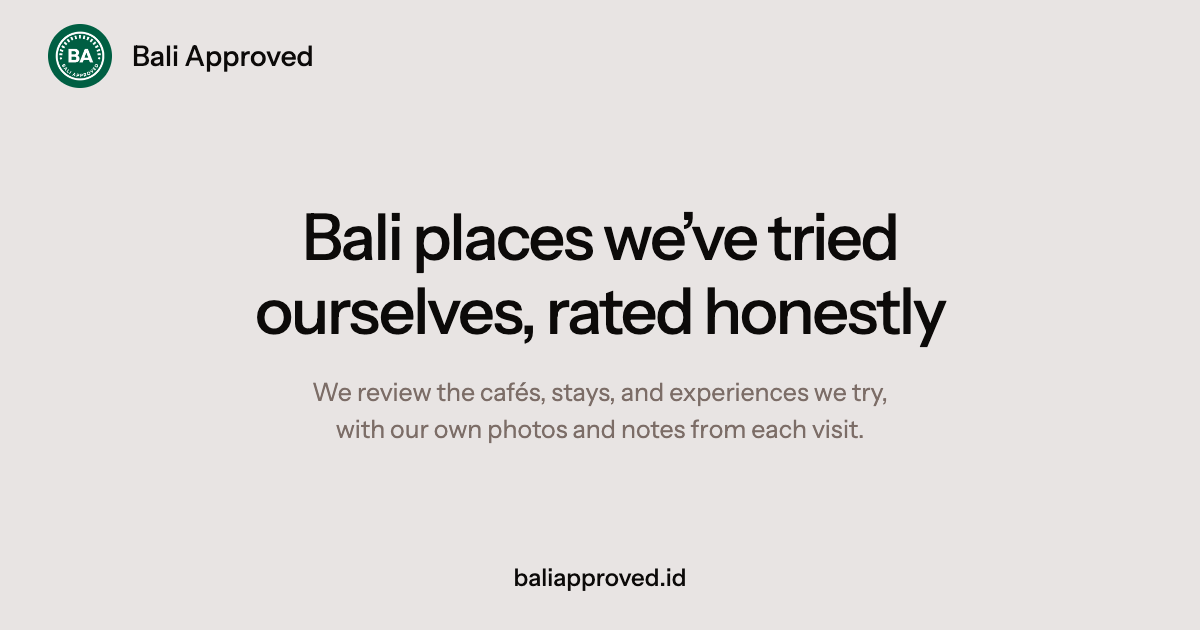
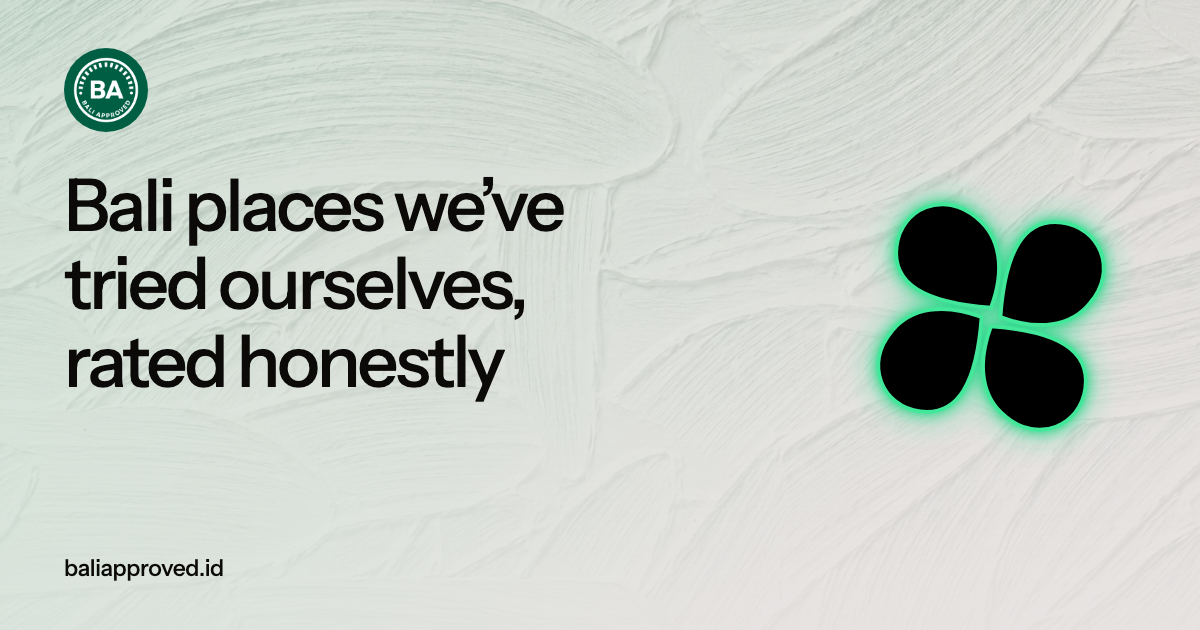
feat(seo): refresh the default share image
- Refresh the 1200×630 OG image with the BA seal, petal mark, painted texture, and larger headline.
- Add the editable HTML source alongside the exported PNG.

diff --git a/src/seo/og-image.html b/src/seo/og-image.html
@@ -1,0 +1,114 @@
+<!doctype html>
+<html lang="en">
+  <meta charset="utf-8" />
+  <title>Bali Approved share image · 1200 × 630</title>
+  <style>
+    @font-face {
+      font-family: "Instrument Sans";
+      src: url("../../node_modules/@fontsource-variable/instrument-sans/files/instrument-sans-latin-wght-normal.woff2");
+      font-weight: 400 700;
+    }
+
+    * {
+      box-sizing: border-box;
+    }
+    body {
+      position: relative;
+      width: 1200px;
+      height: 630px;
+      margin: 0;
+      padding: 48px 64px;
+      overflow: hidden;
+      background: #e8e4e3;
+      color: #0c0a09;
+      font-family: "Instrument Sans", sans-serif;
+    }
+    .texture {
+      position: absolute;
+      inset: 0;
+      z-index: -1;
+      width: 100%;
+      height: 100%;
+      object-fit: cover;
+      opacity: 0.45;
+      mask-image: linear-gradient(#000, #0003);
+    }
+    body::before {
+      content: "";
+      position: absolute;
+      inset: 0;
+      z-index: -2;
+      background: linear-gradient(135deg, #cfe7d9, #e8e4e3 75%);
+    }
+    .seal {
+      width: 84px;
+      height: 84px;
+      padding: 9px;
+      border-radius: 50%;
+      background: #005f43;
+    }
+    h1 {
+      position: absolute;
+      left: 64px;
+      top: 167px;
+      margin: 0;
+      font-size: 72px;
+      font-weight: 500;
+      line-height: 1.08;
+      letter-spacing: -3px;
+    }
+    .mark {
+      position: absolute;
+      right: 58px;
+      top: 166px;
+      width: 302px;
+      height: 302px;
+    }
+    footer {
+      position: absolute;
+      inset: auto 64px 48px;
+      font-size: 23px;
+      font-weight: 500;
+      letter-spacing: -0.4px;
+    }
+  </style>
+  <body>
+    <img class="texture" src="../hero/assets/paint-texture-green.webp" alt="" />
+    <img
+      class="seal"
+      src="../site/assets/bali-approved.png"
+      alt="Bali Approved seal"
+    />
+    <h1>Bali places we’ve<br />tried ourselves,<br />rated honestly</h1>
+    <svg class="mark" viewBox="0 0 64 64" fill="none" aria-hidden="true">
+      <defs>
+        <path
+          id="petal"
+          d="M32 30C18 29 11 25 12 17C13 9 22 5 29 11C34 15 35 22 32 30Z"
+        />
+        <filter id="glow" x="-40%" y="-40%" width="180%" height="180%">
+          <feDropShadow
+            dx="0"
+            dy="0"
+            stdDeviation="1.2"
+            flood-color="#2cd88a"
+          />
+          <feDropShadow
+            dx="0"
+            dy="0"
+            stdDeviation="3"
+            flood-color="#2cd88a"
+            flood-opacity="0.7"
+          />
+        </filter>
+      </defs>
+      <g fill="#000" stroke="#42e89a" stroke-width="0.8" filter="url(#glow)">
+        <use href="#petal" />
+        <use href="#petal" transform="rotate(90 32 32)" />
+        <use href="#petal" transform="rotate(180 32 32)" />
+        <use href="#petal" transform="rotate(270 32 32)" />
+      </g>
+    </svg>
+    <footer>baliapproved.id</footer>
+  </body>
+</html>
